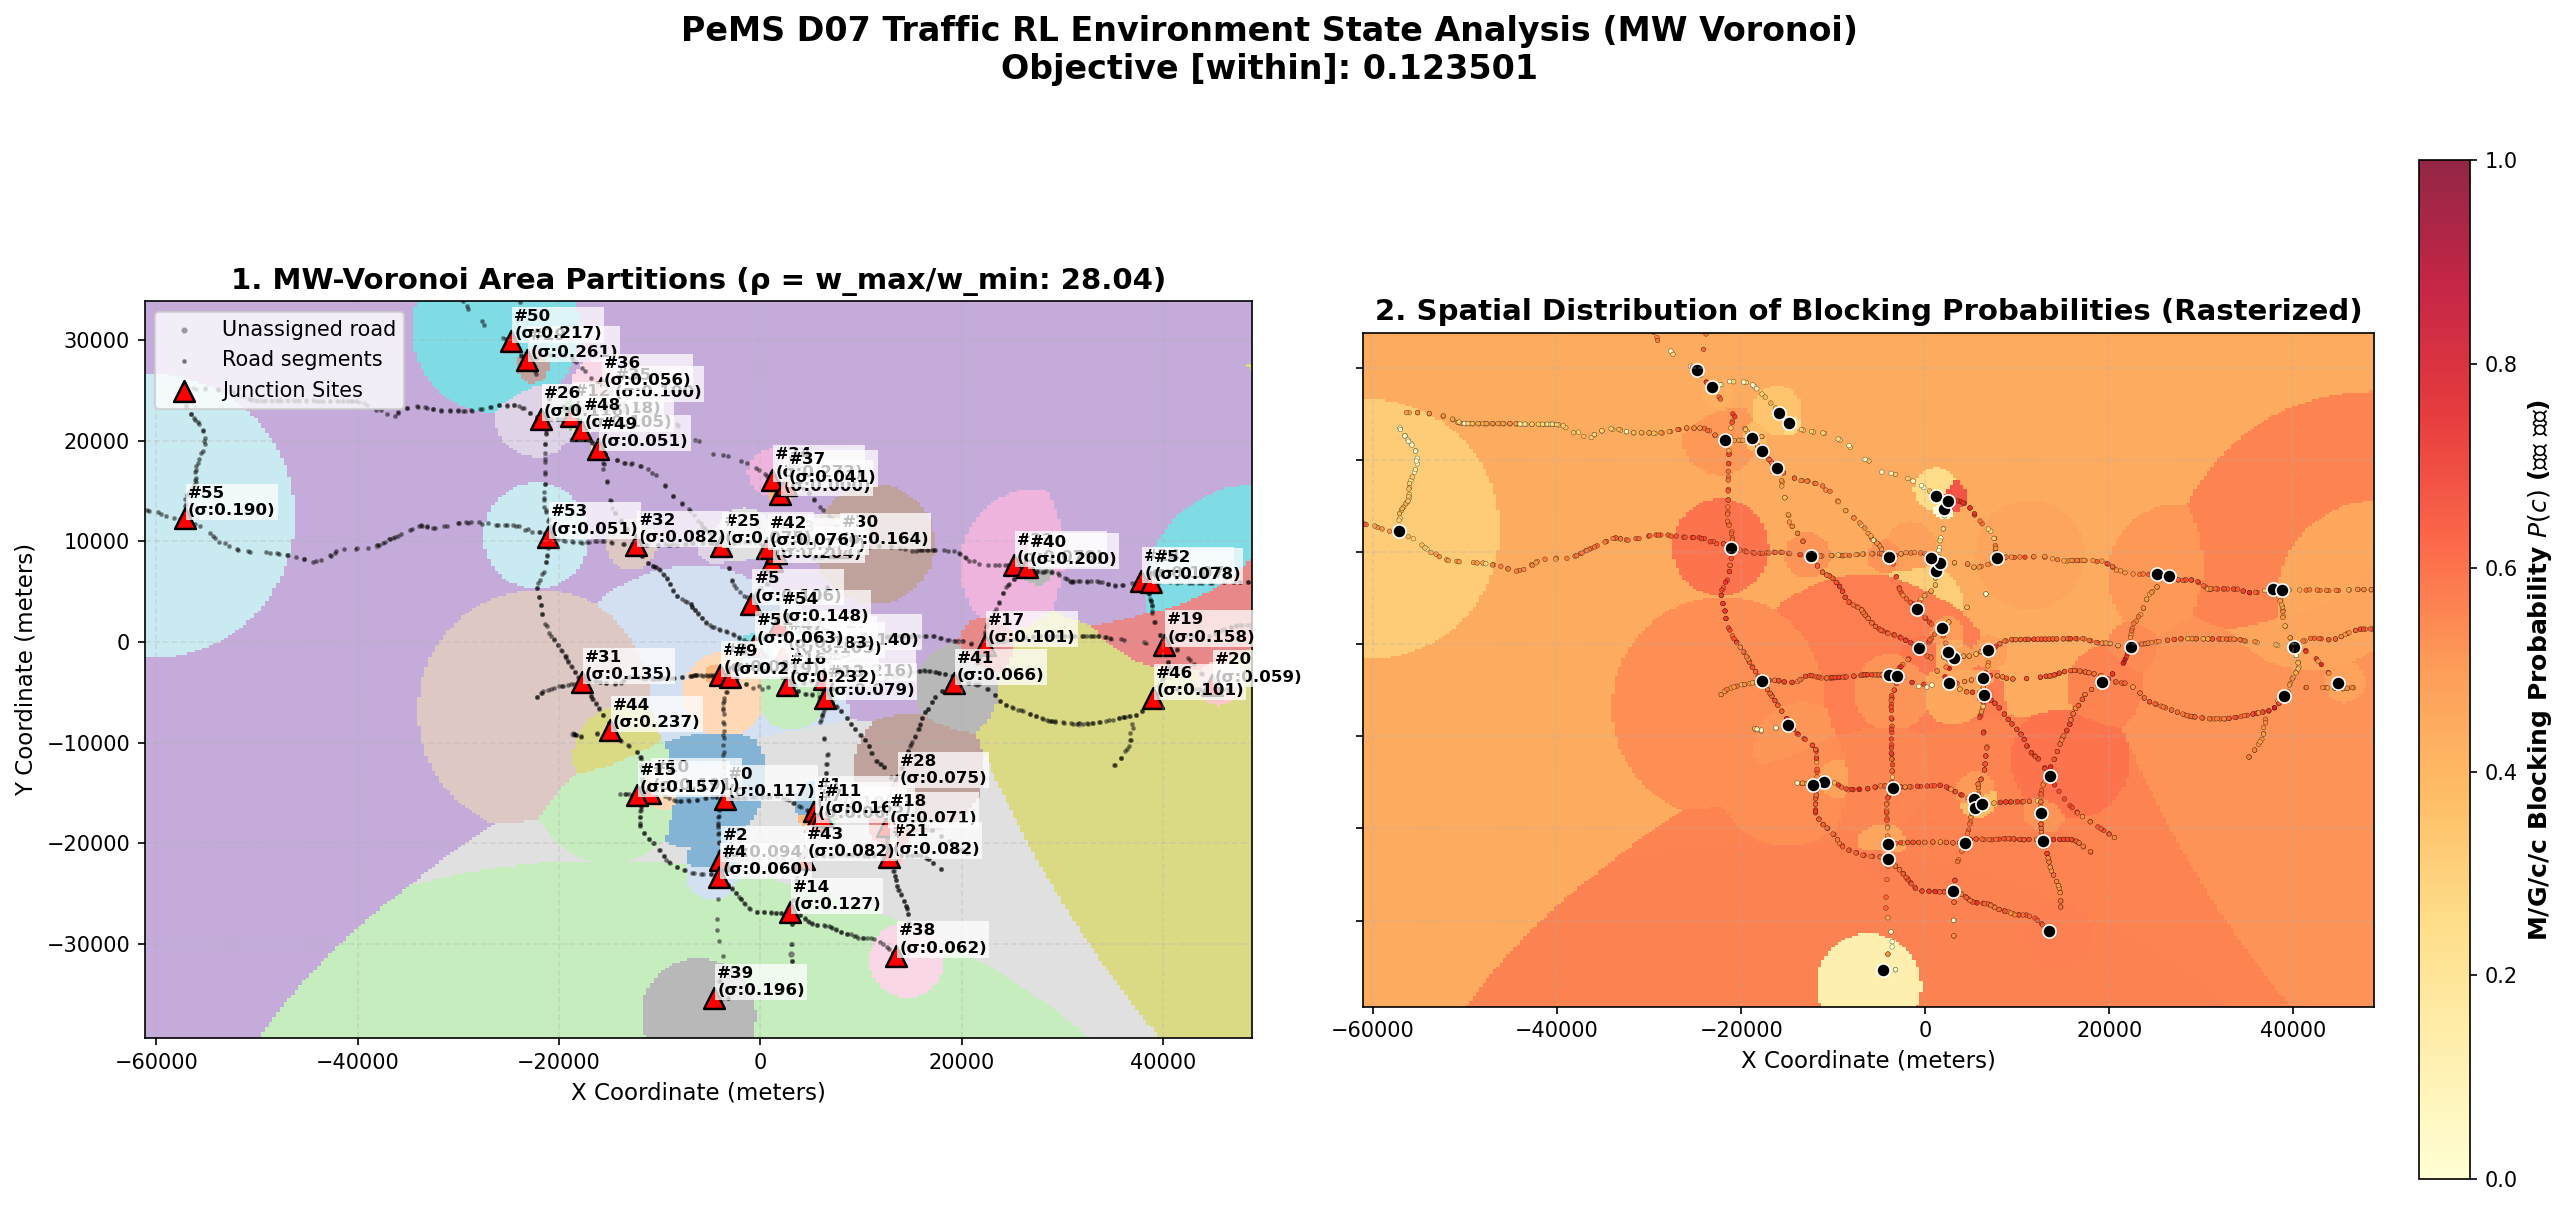
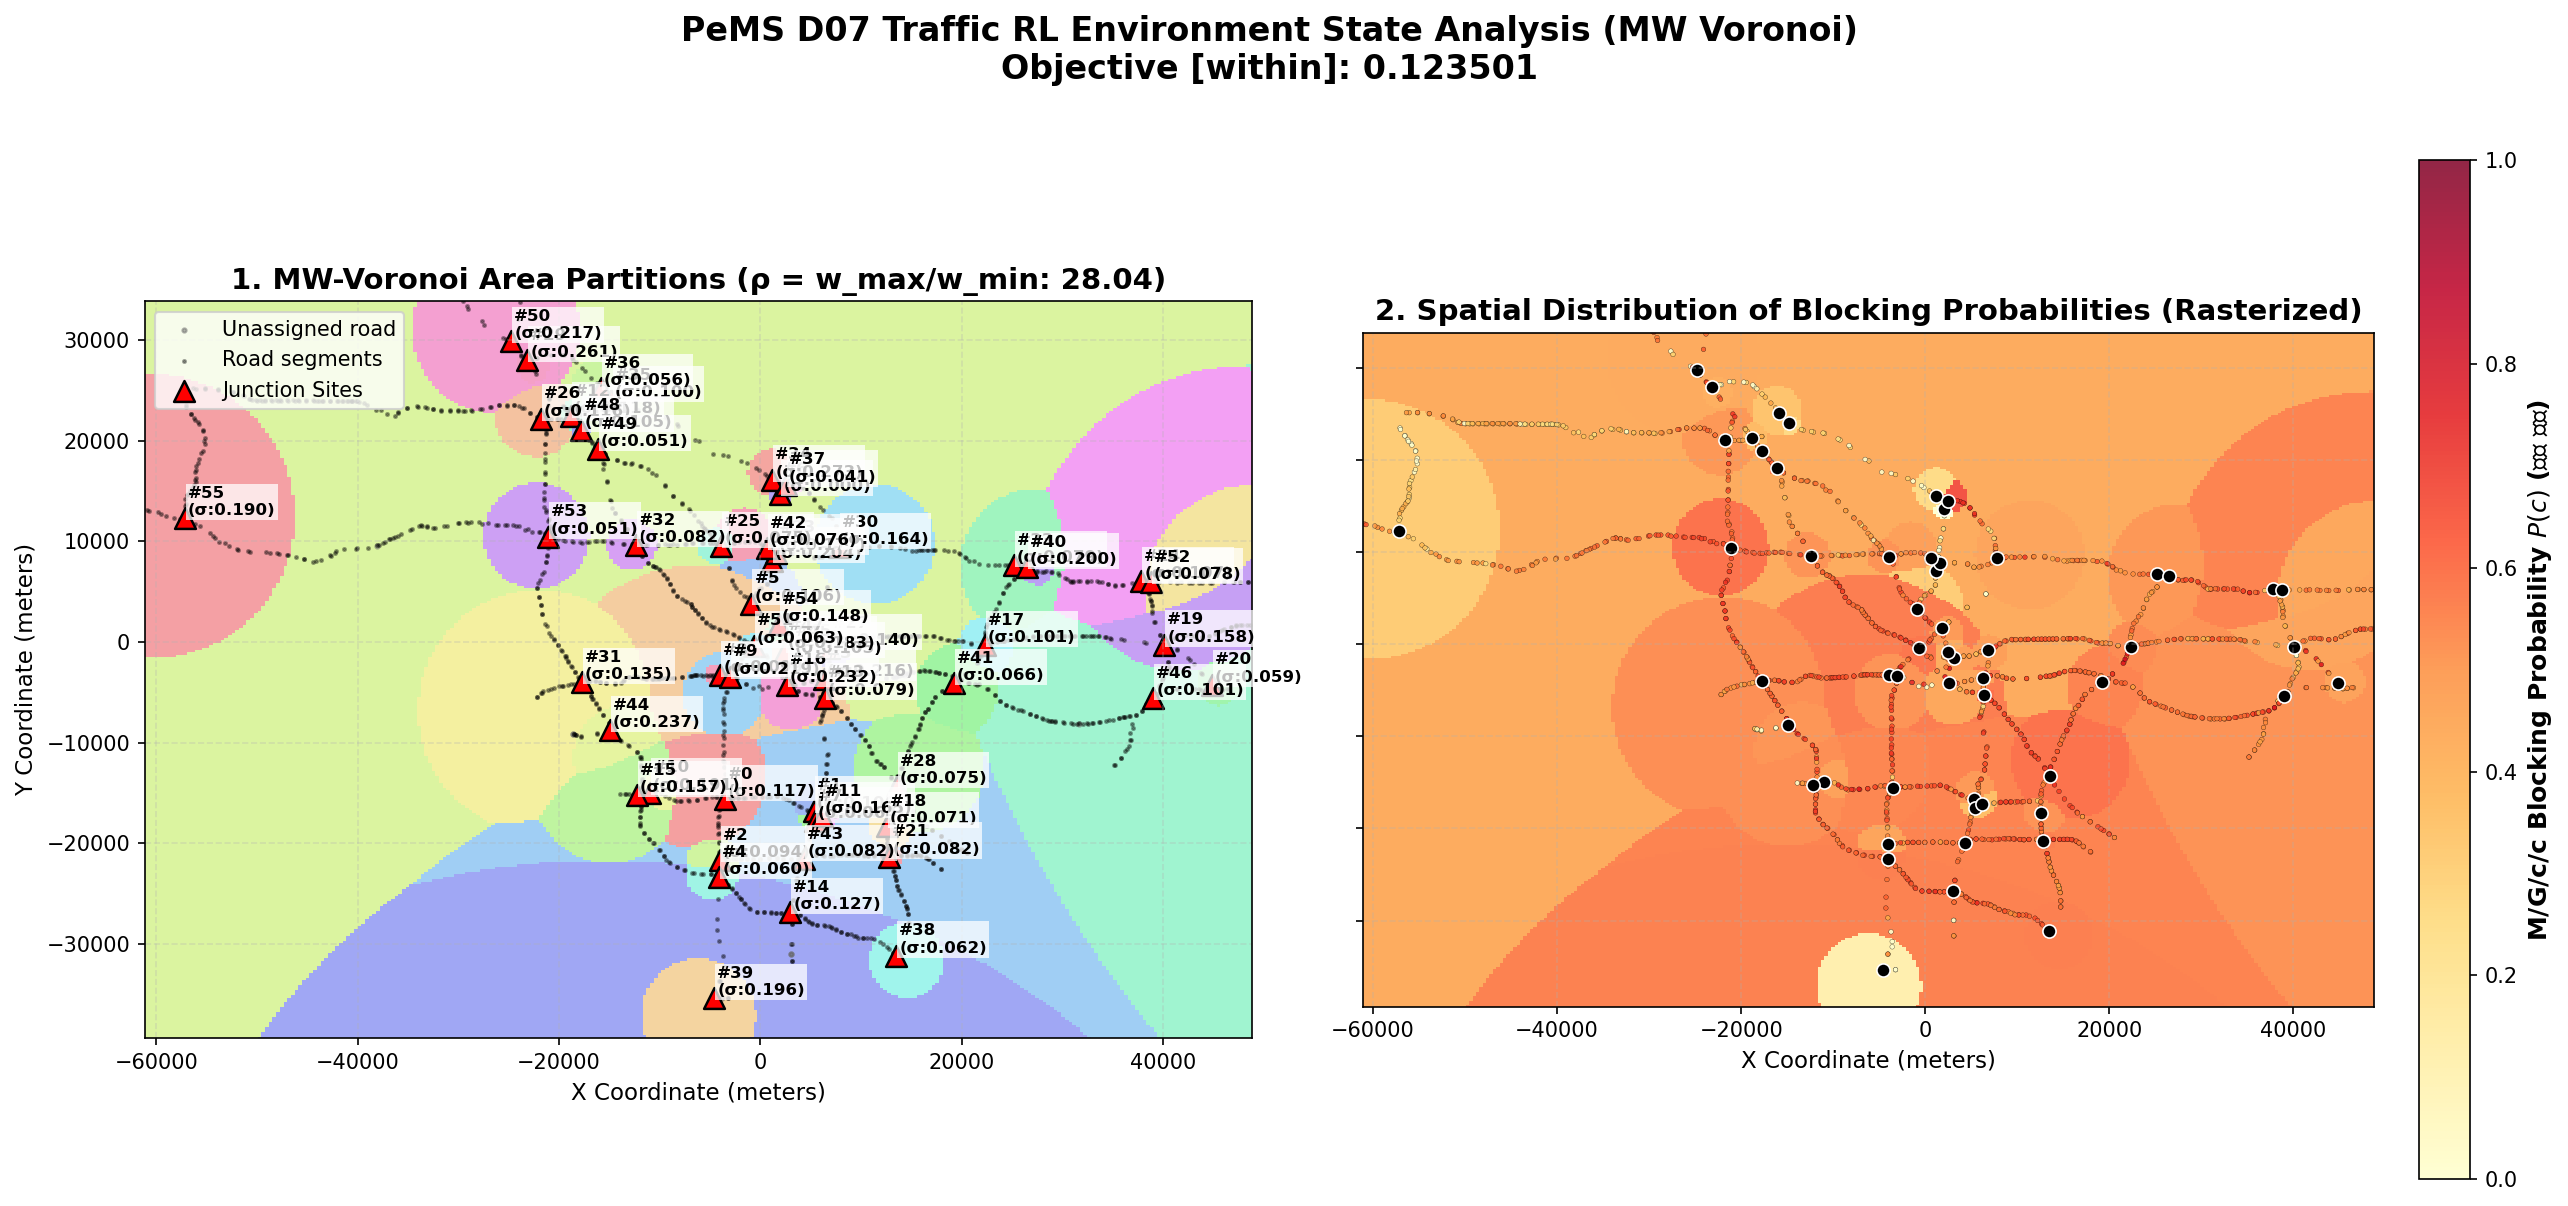
change

Changed region(s): [[0.0312, 0.2454, 0.4984, 0.859]]

diff --git a/features/data_preprocessing/vor_sd/rl_env_voronoi_mw.py b/features/data_preprocessing/vor_sd/rl_env_voronoi_mw.py
@@ -36,7 +36,7 @@ PHF = 0.15
 
 class TrafficRLEnvMW:
     def __init__(self, segments_csv, sites_csv, meta_txt,
-                 rho_max=50.0,          # 허용 가중치 비 w_max/w_min
+                 rho_max=2.0,          # 허용 가중치 비 w_max/w_min
                  min_len=1.0,          # 자투리 컷 [m]
                  min_pieces=2,         # 이보다 조각이 적은 셀은 목적함수에서 제외
                  objective="within",   # "global" | "within" | "mixed"
@@ -149,6 +149,7 @@ class TrafficRLEnvMW:
         xpos = self.x_min + (action[1] + 1) / 2 * (self.x_max - self.x_min)
         ypos = self.y_min + (action[2] + 1) / 2 * (self.y_max - self.y_min)
         mu   = max(1e-5, (action[3] + 1) / 2 * self.spacing)
+        
         # tanh 스케일링 반영함
         for i in range(0,len(self.a)):
             uclid_dist = sqrt((xpos-self.site_coords[i][0])**2 + (ypos-self.site_coords[i][1])**2)

diff --git a/SAC/softlearning-master/softlearning/Comp_SA.py b/SAC/softlearning-master/softlearning/Comp_SA.py
@@ -60,7 +60,7 @@ SEGMENTS_FILE = f"{DIR}/outputs/pems_d07_segments.csv"
 SITES_FILE = f"{DIR}/outputs/pems_d07_sites.csv"
 META_FILE = f"{DIR}/d07_text_meta_2018_10_13.txt"
 
-OBJECTIVE = "global"          # "global" | "within" | "mixed"
+OBJECTIVE = "within"          # "global" | "within" | "mixed"
 
 env = TrafficRLEnvMW(
     segments_csv=SEGMENTS_FILE,
